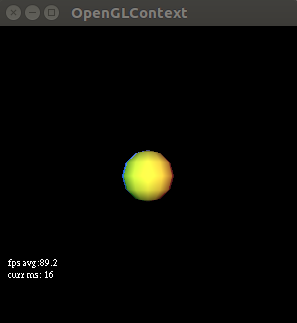
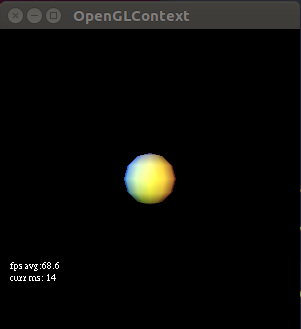
tutorial 7 updates

diff --git a/pyopengl_tut/tutorial7.py b/pyopengl_tut/tutorial7.py
@@ -40,7 +40,7 @@ class TestContext(BaseContext):
             float n_dot_half = 0.0;
             // changed from tutorial 6 phong weight calc after my inblog
             // investigation
-            if (n_dot_pos > 0.0){
+            if (n_dot_pos >= 0.0){
                 n_dot_half = pow(max(0.0, dot(half_light, frag_normal)), shininess);
             }
             return vec2(n_dot_pos, n_dot_half);
@@ -185,7 +185,7 @@ class TestContext(BaseContext):
                 # setup all our vertices / normals and draw them
                 glEnableVertexAttribArray(self.Vertex_position_loc)
                 glEnableVertexAttribArray(self.Vertex_normal_loc)
-                
+
                 glVertexAttribPointer(self.Vertex_position_loc,
                 3, GL_FLOAT, False, stride, self.coords)
                 glVertexAttribPointer(self.Vertex_normal_loc,
